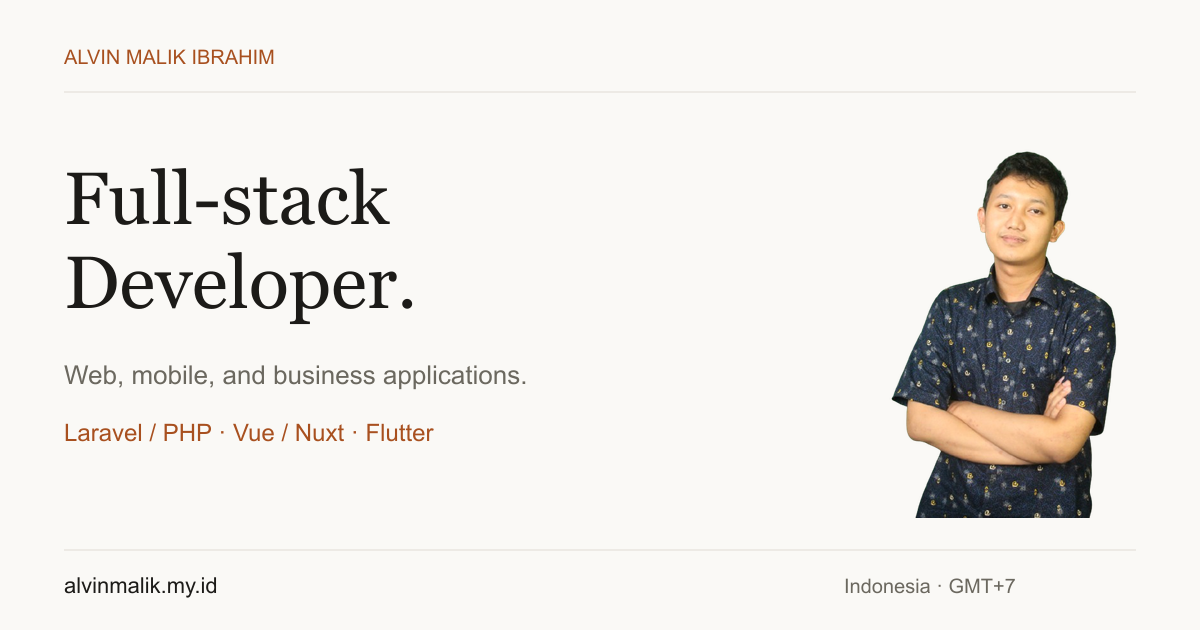
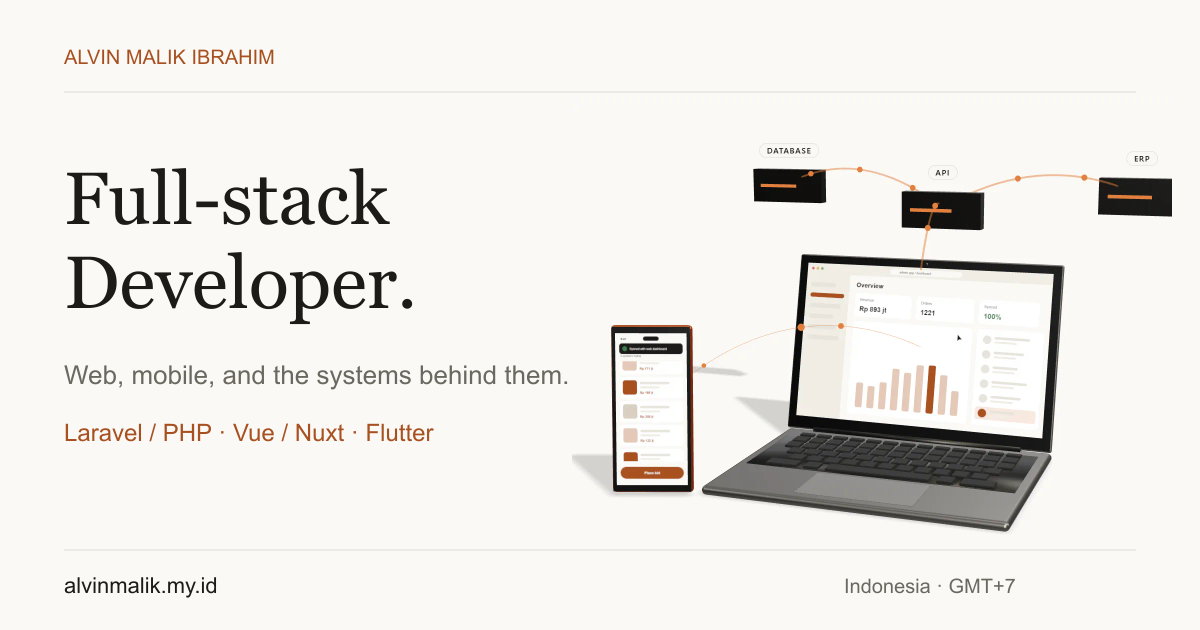
feat: robotics trainer copy, shorter pins, new social preview, asset test
- Racer Robot: the card, case study, experience entry and About now
  cover the robotics trainer role (IoT and machine learning) and R&D on
  prototypes alongside the website work. No specific tools are named
  yet; a TODO in projects.js marks where to add them.
- Pinned scenes are ~30% shorter (auction 1100px, finance and robotics
  1000px; 4400px → 3100px of locked scroll in total).
- og-portfolio.png now uses the hero scene and the hero tagline
  (scripts/prepare-assets.mjs).
- Test: every image the prerendered home page references, plus the GLB
  models and plane frames the scenes load from JavaScript, must exist
  in dist (fails if a still or model is missing).

Changed region(s): [[0.4625, 0.2413, 0.9867, 0.8444], [0.2158, 0.573, 0.4625, 0.6333], [0.6167, 0.2111, 0.7092, 0.3317]]

diff --git a/src/data/projects.js b/src/data/projects.js
@@ -55,19 +55,20 @@ export const projects = [
   {
     slug: 'racer-robot',
     scene: 'robotics', // home card shows the robotics R&D scene (RoboticsScene.vue)
-    // TODO(alvin): the card text below covers the website work only. Add the instructor + IoT/ML R&D side here
-    // (which prototypes, boards/tools such as Arduino, ESP32, Python, and who they were for) once confirmed.
-    title: 'Racer Robot: websites for a robotics community',
+    // TODO(alvin): optionally name specific IoT/ML prototypes and tools (e.g. boards, languages) once you want them listed.
+    title: 'Racer Robot: robotics training, R&D, and the web',
     period: '2019 — 2023',
     client: 'PT Racer Robot Indonesia',
-    summary: 'Company, community, competition, and learning websites, supported by campaign landing pages, technical SEO, and analytics.',
+    summary: 'Robotics trainer covering IoT and machine learning, R&D on prototypes when projects needed it, and the company, community, competition, and learning websites.',
     problem: 'The company needed web destinations for different audiences: customers, the robotics community, competition participants, and learners.',
     solution: 'Company and community websites, the IYRA competition website, an e-learning site, and landing pages for Facebook campaigns.',
-    role: 'Designed and developed websites and campaign pages, handled SEO and Google Analytics, and maintained the company’s web presence.',
+    role: 'Trained participants in robotics, IoT, and machine learning, and joined R&D on prototypes. On the web side, designed and developed websites and campaign pages, handled SEO and Google Analytics, and maintained the company’s web presence.',
     challenge: 'Each website served a different audience. Site content and page structure needed to support both everyday information and time-sensitive campaigns or competition events.',
     result: 'The company had dedicated web destinations for its business, community, competition, and learning activities, alongside campaign-specific landing pages.',
-    stack: ['PHP', 'Web development', 'Technical SEO', 'Google Analytics'],
+    stack: ['Robotics', 'IoT', 'Machine learning', 'PHP', 'Web development', 'Technical SEO', 'Google Analytics'],
     contributions: [
+      'Robotics training covering IoT and machine learning.',
+      'R&D on robotics prototypes alongside the training work.',
       'Website design and development across the company’s web properties.',
       'Landing pages supporting Facebook advertising campaigns.',
       'SEO and analytics work supporting the websites.',

diff --git a/src/components/AboutSection.vue b/src/components/AboutSection.vue
@@ -7,7 +7,7 @@
         <p>I’m a full-stack developer based in Indonesia. My web development work began at Racer Robot in 2019; at Tunas Auction, I work on web and mobile applications and the finance tools behind them.</p>
         <p>Live bids must not double-count. Deposits and refunds need to reconcile. Finance records have to agree across applications. These are the kinds of requirements that make the work interesting to me.</p>
         <p>My work spans Flutter interfaces, Vue admin tools, and ERP integration. I also bring experience in website development, SEO, and explaining technical work to people outside engineering.</p>
-        <p>Before Tunas, I helped organize robotics competitions and trained teachers at partner schools. That experience still shapes how I communicate: understand the problem, explain the options, and make the next step clear.</p>
+        <p>Before Tunas, I was a robotics trainer covering IoT and machine learning, joined R&amp;D on prototypes, helped organize robotics competitions, and trained teachers at partner schools. That experience still shapes how I communicate: understand the problem, explain the options, and make the next step clear.</p>
         <a href="/#contact" class="inline-flex min-h-11 items-center text-link text-foreground">Talk about a project or a role →</a>
       </div>
     </div>

diff --git a/src/components/WorkExperienceSection.vue b/src/components/WorkExperienceSection.vue
@@ -40,8 +40,9 @@ const jobs = [
     role: 'Web Developer & Digital Marketing',
     company: 'PT Racer Robot Indonesia',
     period: 'Aug 2019 — Mar 2023',
-    stack: ['PHP', 'Web development', 'SEO', 'Google Analytics'],
+    stack: ['PHP', 'Web development', 'SEO', 'Google Analytics', 'Robotics', 'IoT', 'Machine learning'],
     highlights: [
+      'Worked as a robotics trainer covering IoT and machine learning, and joined R&D on prototypes.',
       'Designed and developed company, robotics community, IYRA competition, and e-learning websites.',
       'Built Facebook campaign landing pages and handled website SEO and analytics.',
       'Helped organize robotics competitions and delivered training for teachers at partner schools.',

diff --git a/src/robotics3d.js b/src/robotics3d.js
@@ -59,7 +59,7 @@ export async function initRobotics3D(root) {
   const netDots = Array.from({ length: 4 }, () => { const d = new THREE.Mesh(dotGeo, new THREE.MeshBasicMaterial({ color: 0xe0703a })); scene.add(d); return d })
 
   let target = 0, p = 0
-  ScrollTrigger.create({ trigger: root, start: 'center center', end: '+=1400', pin: true, onUpdate: (self) => { target = self.progress } })
+  ScrollTrigger.create({ trigger: root, start: 'center center', end: '+=1000', pin: true, onUpdate: (self) => { target = self.progress } })
   ScrollTrigger.sort() // scenes load in any order; pins must refresh top-to-bottom or later pins miss earlier spacers
   ScrollTrigger.refresh()
   root.classList.add('is-live')

diff --git a/src/finance3d.js b/src/finance3d.js
@@ -49,7 +49,7 @@ export async function initFinance3D(root) {
   screen.material.emissive = new THREE.Color(0xe0703a)
 
   let target = 0, p = 0
-  ScrollTrigger.create({ trigger: root, start: 'center center', end: '+=1400', pin: true, onUpdate: (self) => { target = self.progress } })
+  ScrollTrigger.create({ trigger: root, start: 'center center', end: '+=1000', pin: true, onUpdate: (self) => { target = self.progress } })
   ScrollTrigger.sort() // scenes load in any order; pins must refresh top-to-bottom or later pins miss earlier spacers
   ScrollTrigger.refresh()
   root.classList.add('is-live')

diff --git a/src/auction3d.js b/src/auction3d.js
@@ -39,7 +39,7 @@ export async function initAuction3D(root) {
 
   // Pin the card while the auction plays out; progress is eased in the frame loop.
   let target = 0, p = 0
-  ScrollTrigger.create({ trigger: root, start: 'center center', end: '+=1600', pin: true, onUpdate: (self) => { target = self.progress } })
+  ScrollTrigger.create({ trigger: root, start: 'center center', end: '+=1100', pin: true, onUpdate: (self) => { target = self.progress } })
   ScrollTrigger.sort() // scenes load in any order; pins must refresh top-to-bottom or later pins miss earlier spacers
   ScrollTrigger.refresh()
 

diff --git a/src/components/RoboticsScene.vue b/src/components/RoboticsScene.vue
@@ -21,7 +21,6 @@
         <p class="stamp is-on">Model ready</p>
       </div>
     </div>
-    <!-- TODO(alvin): replace with the real projects once known, e.g. which IoT/ML prototypes, boards (Arduino/ESP32), and who they were for. -->
     <figcaption class="text-xs text-muted mt-2 leading-relaxed">An illustration of the robotics side of this role: teaching, and R&amp;D prototypes in IoT and machine learning.</figcaption>
   </figure>
 </template>
